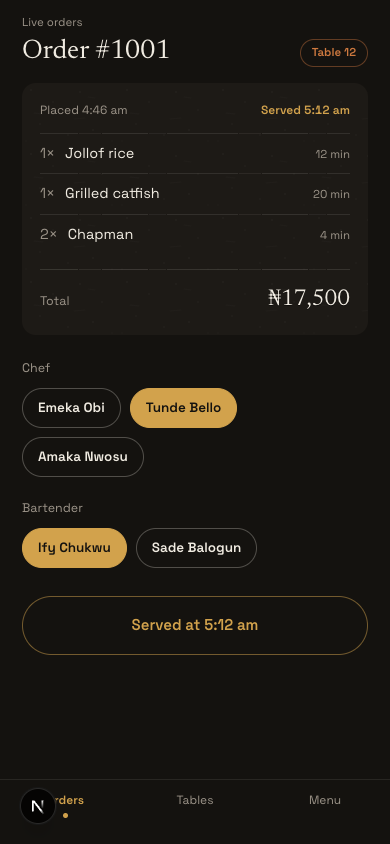
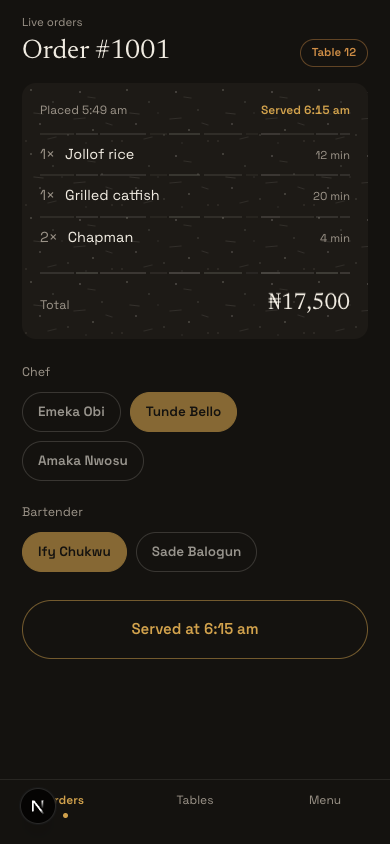
docs: the repair as evidence, from production
Every screen before and after the repair with element crops at two
times, the motion captured as consecutive frames in Chromium and in
WebKit (the sweep, the crossing, placing, serving, the print) with a
contact sheet of each, and the empty, loading, missing and offline
states a stranger meets. All from the deployed URL.

diff --git a/docs/screens/README.md b/docs/screens/README.md
@@ -1,26 +1,38 @@
-# Screens of Night Service
+# Screens and evidence of Night Service
 
-Every screen and state of the app, captured at 390 wide against the dev server on the
-seeded data. The numbered frames are from headless Chromium, clicked through in order;
-the `webkit-` frames are the same screens rendered by the system WebKit, Safari's
-engine, which is the one that caught the CSP fault in an earlier round. Times are the
-machine's local time at capture.
+Everything here was captured against the deployed app at
+https://chowly-theta.vercel.app at 390 wide, in headless Chromium and in Playwright's
+WebKit 26.5. Times in the frames are the machine's local time at capture.
 
-| File | Screen and state |
+## The screens, numbered
+
+The `0x-*-390.png` frames at the top of this folder are the eight screens of the handoff
+and their states, clicked through in order in Chromium on the dev server before the
+repair. The same screens after the repair, from production, are in `after/`.
+
+## Before and after the repair
+
+`before/` holds every screen and the element crops from production before the repair;
+`after/` holds the same from production after it. The pairs that matter are on one sheet,
+`motion/sheets/before-after.png`: the order card, a live-orders row, the waiter's order
+card, the pay summary and the receipt, at two times.
+
+## Motion, as frames
+
+Every sequence below is a real order on production, captured as consecutive frames, in
+`motion/chromium/` and `motion/webkit/`, with a contact sheet of each in `motion/sheets/`.
+
+| Sheet | What it shows |
 |---|---|
-| `01-landing-390.png` | Screen 1. The dining room, the name, the two ways in, the table |
-| `02-menu-390.png` | Screen 2. Mains, the round photographs, the add circles, the empty cart strip |
-| `02b-menu-cart-390.png` | Drinks, with Chapman at 2 on the stepper and the cart bar risen: 4 items, ₦18,813 |
-| `02c-order-review-390.png` | The order sheet: lines with steppers, subtotal, VAT, total, the table, Place order |
-| `03-order-placed-390.png` | Screen 3. The ring emptying, 19:57 of 20 minutes, the stepper, the items |
-| `04-order-late-390.png` | Screen 4. Six minutes late: the ring closed in red, the note, the two actions |
-| `04b-report-390.png` | Report a problem, the sheet |
-| `04c-rate-390.png` | Rate your order, 4 of 5 chosen |
-| `05-waiter-orders-390.png` | Screen 5. Live orders: one open, one drink pending, Ada O., the late row |
-| `06-waiter-order-390.png` | Screen 6. The order open: placed, six minutes late, the lines with their minutes, chef and bartender |
-| `06b-waiter-served-390.png` | Marked as served: the button has become the record of when |
-| `07-pay-390.png` | Screen 7. The summary with VAT, three methods, Pay ₦18,813 (pretend) |
-| `08-receipt-390.png` | Screen 8. The receipt printed: perforation, ruled lines, the stamp, the torn foot, the credit line |
-| `webkit-landing-390.png`, `webkit-menu-390.png`, `webkit-waiter-390.png`, `webkit-waiter-menu-390.png` | The same screens in WebKit |
+| `chromium-sweep.png`, `webkit-sweep.png` | The ring drawing in and then sweeping, ten frames about 300ms apart; the offsets logged before each frame are in the AI log |
+| `chromium-cross.png` | The promise crossing on a four-minute order: twelve frames fifteen seconds apart, the arc emptying, then refilling while ochre becomes red, then closed and red, and the whole screen at the end |
+| `chromium-place.png`, `webkit-place.png` | Placing an order, from the tap through the sheet leaving to the Order tab with the ring drawing in |
+| `chromium-serve.png`, `webkit-serve.png` | Mark as served, from the press through the wait to the pill draining into the record |
+| `chromium-print.png`, `webkit-print.png` | The receipt printing: the card feeding down from the perforation, the lines, the stamp landing, the credit and the button |
 
-The earlier set, of The Pass, is in the history of this folder at the merge of phase 4b.
+## States
+
+`states/` holds what a stranger meets off the happy path, from production: the landing
+without a table on the link, the Order and Pay tabs with no order, a waiter order that
+does not exist, the 404, the three loading states caught early, placing an order while
+offline, and the live list seven seconds after going offline.
